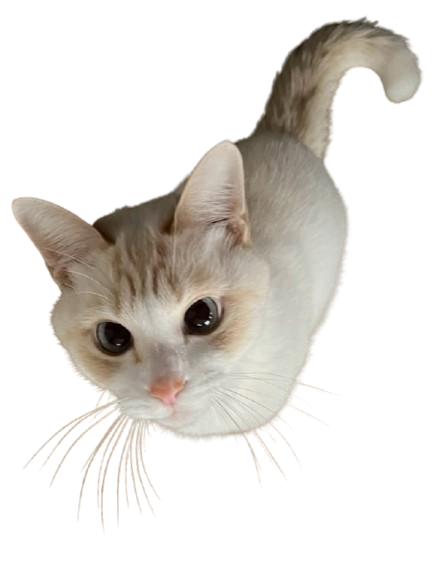
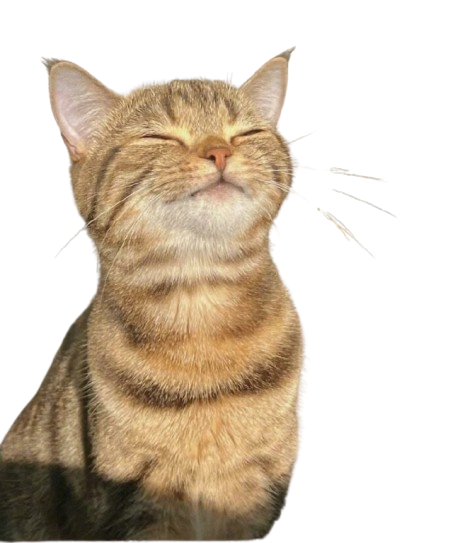
fix: fix the cat picture, delete the cards section from the user profile

diff --git a/frontend/src/pages/ProfilePage.jsx b/frontend/src/pages/ProfilePage.jsx
@@ -506,24 +506,6 @@ function ProfilePage() {
 
           <div className="profile-section-card">
             <div className="profile-section-title-wrapper">
-              <h2 className="profile-section-title">КАРТКИ ДЛЯ ОПЛАТИ</h2>
-            </div>
-
-            <div className="profile-cards-list">
-              <p className="profile-empty">Збережених карток немає</p>
-              <button
-                className="add-payment-card-btn"
-                onClick={() =>
-                  alert("Функцію додавання картки можна підключити пізніше.")
-                }
-              >
-                + ДОДАТИ КАРТКУ
-              </button>
-            </div>
-          </div>
-
-          <div className="profile-section-card">
-            <div className="profile-section-title-wrapper">
               <h2 className="profile-section-title">Опитувальник вайбу</h2>
             </div>
 

diff --git a/frontend/src/App.css b/frontend/src/App.css
@@ -3180,7 +3180,7 @@ body.favorites-page-body .app::before {
   position: absolute;
   right: 40px;
   top: 20px;
-  width: 210px;
+  width: 310px;
   height: auto;
   max-height: 100%;
   object-fit: contain;
